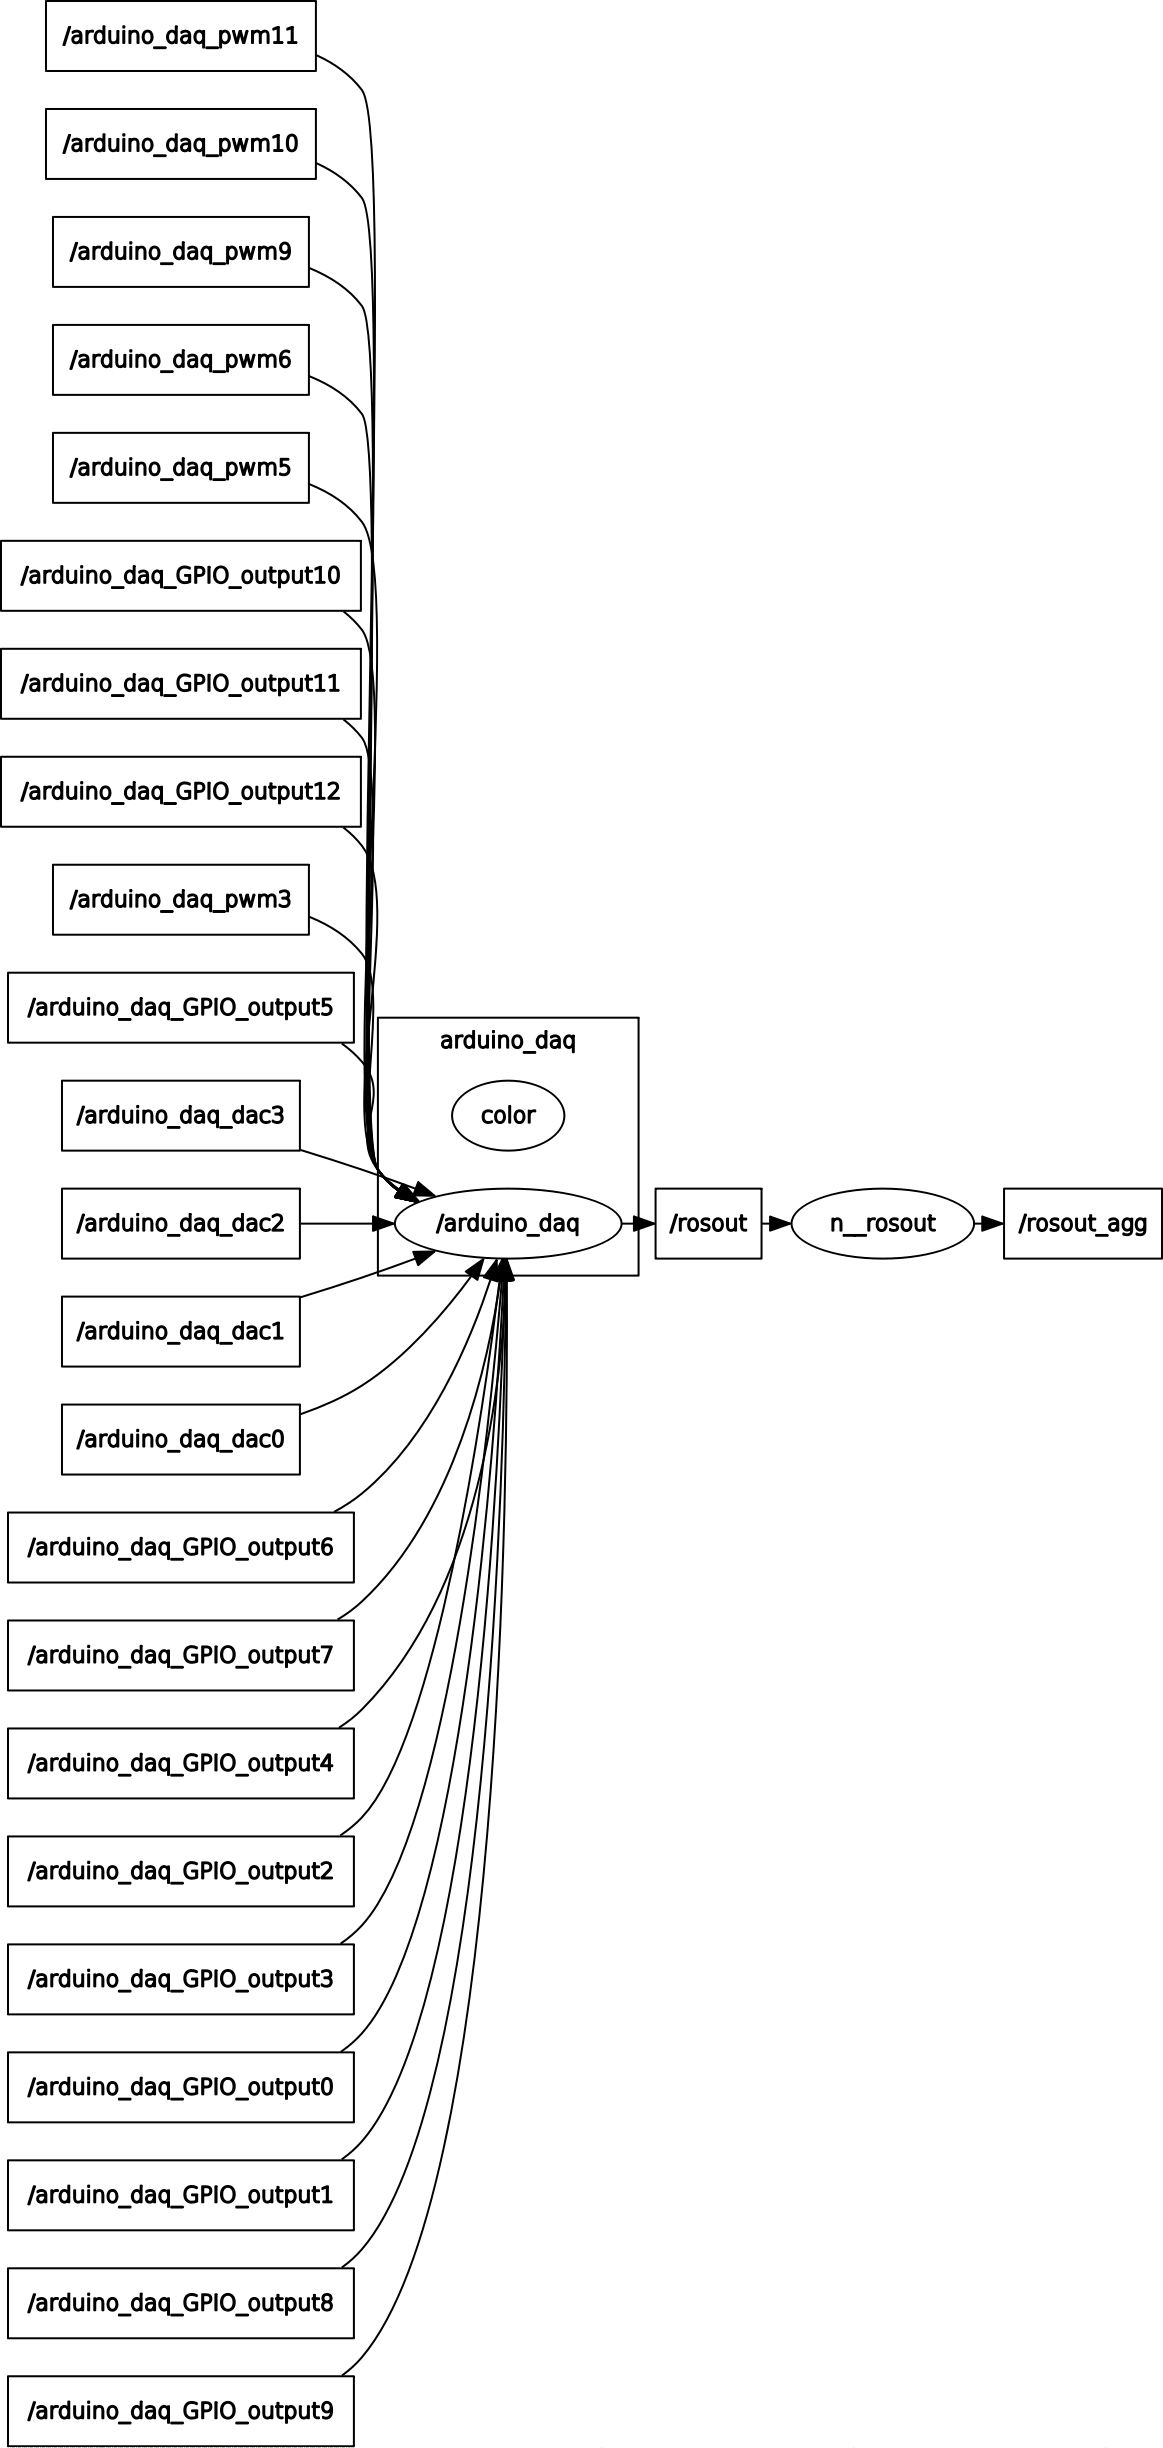
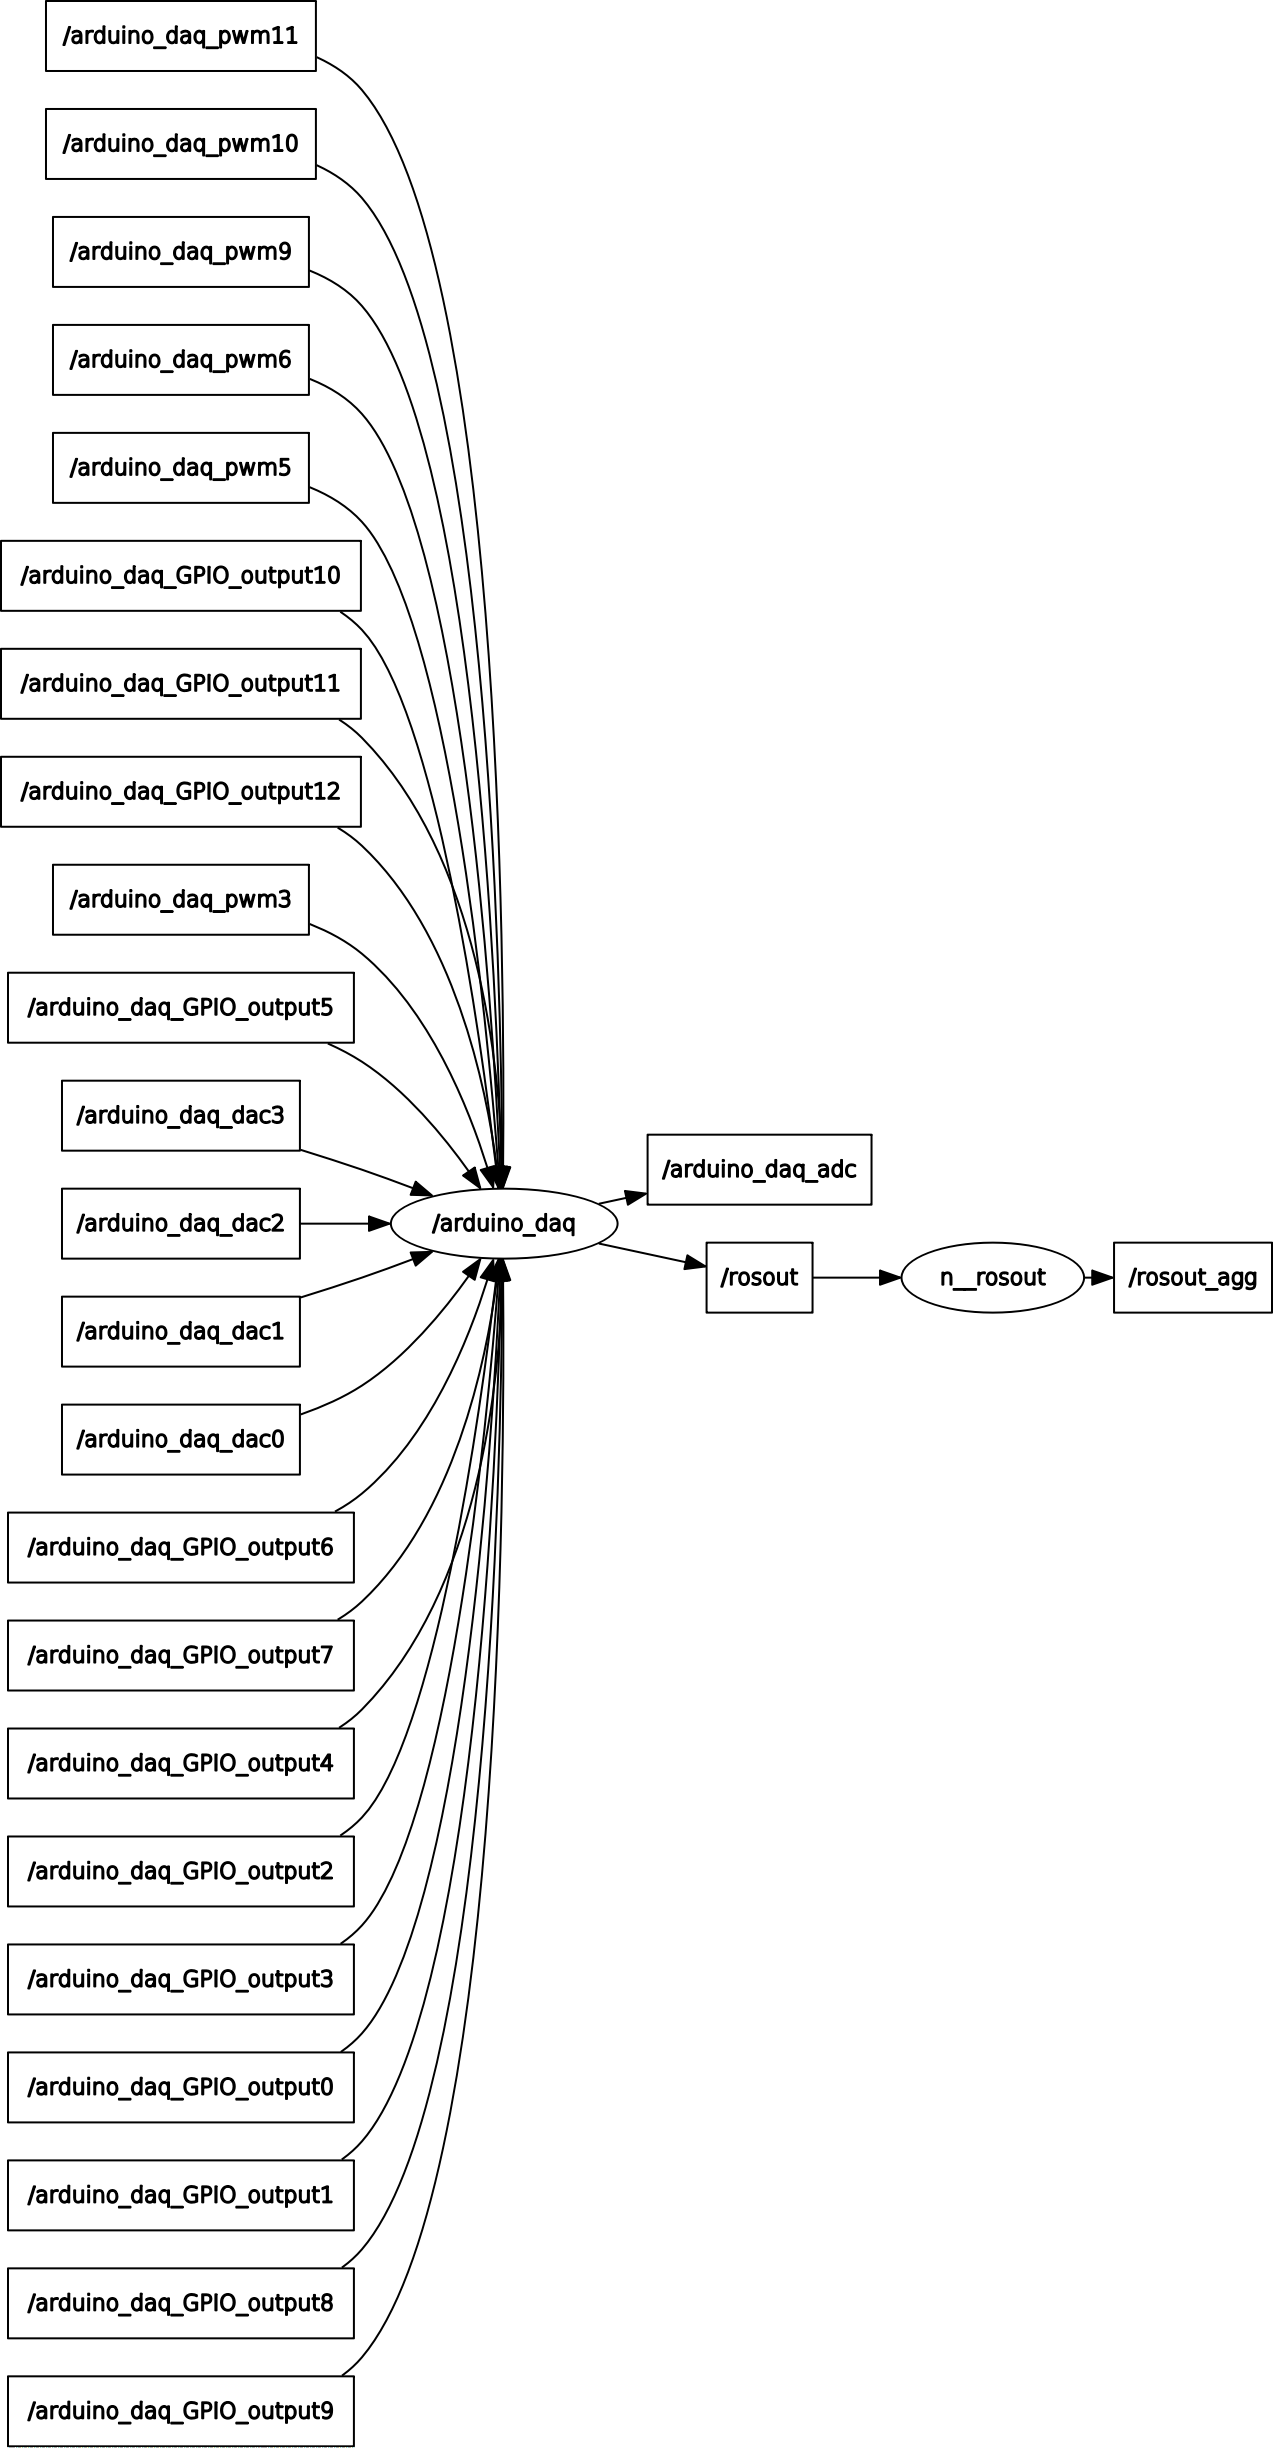
Support emitting ADC readings

diff --git a/src/arduino_daq/ArduinoDAQ_LowLevel.cpp b/src/arduino_daq/ArduinoDAQ_LowLevel.cpp
@@ -36,6 +36,7 @@
 #include <arduino_daq/ArduinoDAQ_LowLevel.h>
 #include <mrpt/system/threads.h> // for sleep()
 #include <arduino_daq/ArduinoDAQ_LowLevel.h>
+#include <arduino_daq/AnalogReading.h>
 #include <functional>
 #include <cstring>
 
@@ -126,7 +127,51 @@ bool ArduinoDAQ_LowLevel::initialize()
 		m_sub_PWM_outputs[i] = m_nh.subscribe<std_msgs::UInt8>( mrpt::format("arduino_daq_pwm%i",pin), 10, fn);
 	}
 
+  // Publisher: ADC data
+	m_pub_ADC = m_nh.advertise<arduino_daq::AnalogReading>("arduino_daq_adc", 10);
+
+
+	// Only for ROS:
+	// If provided via params, automatically start ADC conversion:
+	{
+		int ADC_INTERNAL_REFVOLT = 0;
+		m_nh_params.getParam("ADC_INTERNAL_REFVOLT",ADC_INTERNAL_REFVOLT);
+
+		int ADC_MEASURE_PERIOD_MS = 100;
+		m_nh_params.getParam("ADC_MEASURE_PERIOD_MS",ADC_MEASURE_PERIOD_MS);
+
+		TFrameCMD_ADC_start_payload_t cmd;
+		bool any_active = false;
+		for (int i=0;i<8;i++)
+		{
+			int ch = -1;
+			m_nh_params.getParam(mrpt::format("ADC_CHANNEL%i",i),ch);
+			cmd.active_channels[i] = ch;
+			if (ch!=-1) any_active=true;
+		}
+
+		if (any_active)
+		{
+			cmd.use_internal_refvolt = ADC_INTERNAL_REFVOLT ? 1:0;
+			cmd.measure_period_ms = ADC_MEASURE_PERIOD_MS;
+
+			ROS_INFO("Starting continuous ADC readings with: "
+				"int_ref_volt=%i "
+				"measure_period_ms=%i ms"
+				"channels: %i %i %i %i %i %i %i %i"
+				,
+				cmd.use_internal_refvolt,
+				cmd.measure_period_ms,
+				cmd.active_channels[0],cmd.active_channels[1],cmd.active_channels[2],cmd.active_channels[3],
+				cmd.active_channels[4],cmd.active_channels[5],cmd.active_channels[6],cmd.active_channels[7]
+			);
+			this->CMD_ADC_START(cmd);
+		}
+	}
+
+
 #endif
+
 	return true;
 }
 
@@ -148,13 +193,15 @@ bool ArduinoDAQ_LowLevel::iterate()
 		{
 			switch (rxFrame[1])
 			{
-				case 0x92:
+				case RESP_ADC_READINGS:
 				{
 					TFrame_ADC_readings rx;
 					::memcpy((uint8_t*)&rx, &rxFrame[0], sizeof(rx));
 
-					if (m_adc_callback)
+					if (m_adc_callback) {
 						m_adc_callback(rx.payload);
+					}
+					daqOnNewADCCallback(rx.payload);
 					break;
 				}
 			};
@@ -193,6 +240,17 @@ void ArduinoDAQ_LowLevel::daqSetPWMCallback(int pwm_pin_index, const std_msgs::U
     }
 }
 
+void ArduinoDAQ_LowLevel::daqOnNewADCCallback(const TFrame_ADC_readings_payload_t &data)
+{
+	arduino_daq::AnalogReading msg;
+
+	msg.timestamp_ms = data.timestamp_ms;
+	for (int i=0;i<sizeof(data.adc_data)/sizeof(data.adc_data[0]);i++) {
+		 msg.adc_data[i] = data.adc_data[i];
+	}
+
+	m_pub_ADC.publish(msg);
+}
 #endif
 
 bool ArduinoDAQ_LowLevel::AttemptConnection()

diff --git a/arduino_firmware/arduino_daq/arduino_daq/arduinodaq2pc-structs.h b/arduino_firmware/arduino_daq/arduino_daq/arduinodaq2pc-structs.h
@@ -71,7 +71,7 @@ enum opcode_t {
 	OP_START_CONT_ADC  = 0x20,
 	OP_STOP_CONT_ADC   = 0x21,
 	OP_SET_PWM         = 0x25,
-	
+
 	// -----------------------------
 	// Responses Arduino -> PC
 	// -----------------------------
@@ -82,6 +82,8 @@ enum opcode_t {
 	RESP_GET_GPIO         = OP_GET_GPIO + RESP_OFFSET,
 	RESP_START_CONT_ADC   = OP_START_CONT_ADC + RESP_OFFSET,
 	RESP_STOP_CONT_ADC    = OP_STOP_CONT_ADC + RESP_OFFSET,
+	RESP_ADC_READINGS     = 0x92,
+	RESP_ENCODER_READINGS = 0x93,
 	RESP_SET_PWM          = OP_SET_PWM + RESP_OFFSET,
 
 
@@ -113,9 +115,9 @@ struct TBaseFrame
 
     void calc_and_update_checksum()
     {
-        CHECKSUM = calc_checksum();    
+        CHECKSUM = calc_checksum();
     }
-    
+
     uint8_t calc_checksum() const
     {
         const uint8_t len   = DATALEN; //reinterpret_cast<const uint8_t*>(ptr_frame)[2];
@@ -177,8 +179,8 @@ struct TFrameCMD_ADC_start_payload_t
 		measure_period_ms(200),
 		use_internal_refvolt(0)
 	{
-		for (int i=0;i<8;i++) { 
-			active_channels[i]=-1; 
+		for (int i=0;i<8;i++) {
+			active_channels[i]=-1;
 		}
 	}
 };
@@ -205,7 +207,7 @@ struct TFrameCMD_SET_PWM_payload_t
 {
 	uint8_t  pin_index;
 	uint8_t  analog_value; //!< 0-255 maps to 0% to 100% duty cycle
-	TFrameCMD_SET_PWM_payload_t() : 
+	TFrameCMD_SET_PWM_payload_t() :
 		pin_index(0),
 		analog_value(0)
 	{
@@ -227,7 +229,7 @@ struct TFrame_ADC_readings_payload_t
 struct TFrame_ADC_readings : public TBaseFrame<TFrame_ADC_readings_payload_t>
 {
 	// Defaults:
-	TFrame_ADC_readings() : TBaseFrame(0x92)
+	TFrame_ADC_readings() : TBaseFrame(RESP_ADC_READINGS)
 	{
 	}
 };
@@ -241,7 +243,7 @@ struct TFrame_PULSE_COUNTER_readings_payload_t
 struct TFrame_PULSE_COUNTER_readings : public TBaseFrame<TFrame_PULSE_COUNTER_readings_payload_t>
 {
 	// Defaults:
-	TFrame_PULSE_COUNTER_readings() : TBaseFrame(0x93)
+	TFrame_PULSE_COUNTER_readings() : TBaseFrame(RESP_ENCODER_READINGS)
 	{
 	}
 };

diff --git a/include/arduino_daq/ArduinoDAQ_LowLevel.h b/include/arduino_daq/ArduinoDAQ_LowLevel.h
@@ -65,6 +65,7 @@ public:
 	ros::NodeHandle m_nh_params;
 
 	std::vector<ros::Subscriber> m_sub_GPIO_outputs, m_sub_dac, m_sub_PWM_outputs;
+	ros::Publisher  m_pub_ADC;
 #endif
 
 	void setSerialPort(const std::string &sSerialName) {
@@ -109,6 +110,7 @@ protected:
 	void daqSetDigitalPinCallback(int index, const std_msgs::Bool::ConstPtr& msg);
 	void daqSetDACCallback(int dac_index, const std_msgs::Float64::ConstPtr& msg);
 	void daqSetPWMCallback(int pwm_pin_index, const std_msgs::UInt8::ConstPtr& msg);
+	void daqOnNewADCCallback(const TFrame_ADC_readings_payload_t &data);
 #endif
 
 };

diff --git a/README.md b/README.md
@@ -19,6 +19,10 @@ you want to compile a ROS node or a standalone C++ library.
 For compilation within a [ROS catkin](http://wiki.ros.org/catkin) environment, simple clone
 this repository inside your `~/catkin_ws/src/` and run `catkin_make`.
 
+Prerequisites:
+
+        sudo apt install libmrpt-dev
+
 ROS examples of use
 =====================
 
@@ -28,7 +32,7 @@ Note: Numering of pins follows the `Arduino pin number` convention
 * **First**: Launch the node with
 
        roscore     # In one terminal
-       rosrun arduino_daq arduino_daq_node \_SERIAL_PORT:=/dev/ttyUSB0    # In another terminal
+       rosrun arduino_daq arduino_daq_node _SERIAL_PORT:=/dev/ttyUSB0    # In another terminal
 
 Next, in another terminal try any of the following:
 
@@ -43,6 +47,12 @@ Next, in another terminal try any of the following:
 * Setting a PWM output (0...255 maps to 0%...100% duty cycle):
 
         rostopic pub /arduino_daq_pwm3 std_msgs/UInt8 220
+
+* Automatically starting ADC sampling at 10 Hz, with 5V reference voltage, on two
+channels in pins ADC0 and ADC1 (Requires killing `arduino_daq` to launch it again
+with these parameters).
+
+        rosrun arduino_daq arduino_daq_node _SERIAL_PORT:=/dev/ttyUSB0 _ADC_INTERNAL_REFVOLT:=0 _ADC_MEASURE_PERIOD_MS:=100 _ADC_CHANNEL0:=0 _ADC_CHANNEL1:=1
 
 
 ROS graph
